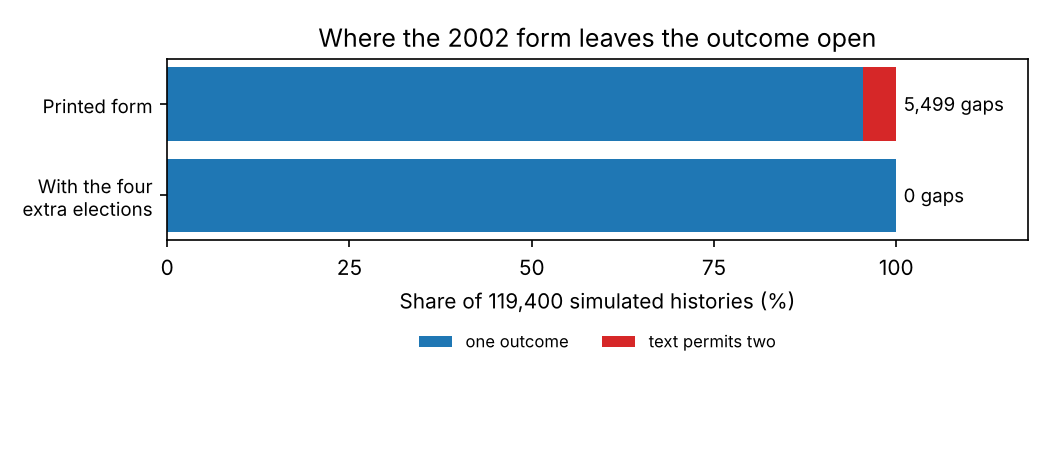
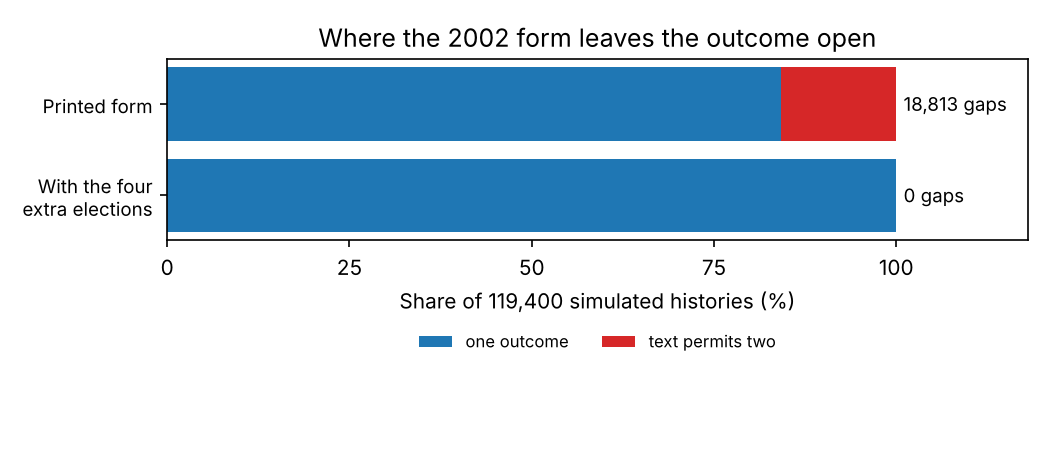
Update compiler section with the independent-spec results
Claude-Session: https://claude.ai/code/session_016kv7imztxe2ZwGBs7LyZaw

Changed region(s): [[0.7314, 0.1244, 0.8229, 0.3111], [0.8533, 0.2178, 0.9752, 0.2489]]

diff --git a/notes/derivatives-law-in-lean.html b/notes/derivatives-law-in-lean.html
@@ -122,7 +122,7 @@
 
 <h3>If a Credit Event Upon Merger hits both parties, nobody can terminate</h3>
 <p>Section 6(b)(iv) gives the right to designate after a Credit Event Upon Merger to the Non-affected Party. That party exists only when a single party is affected. The form provides a two-party fallback for Additional Termination Events but not for Credit Event Upon Merger, so a merger that weakens both parties' credit leaves no one able to terminate. This isn't two readings. The text answers the question, and the answer is a hole in the deal.</p>
-<p>The model also turned up smaller ISDA points. Section 5(c)(ii) reads two ways for an Illegality that causes a missed payment and is also an Additional Termination Event. If both parties miss payments that aren't netted, Section 2(a)(iii) becomes circular when its conditions are tested at the same moment. An unpaid Early Termination Amount from an Illegality is folded into a later close-out only after certain kinds of event. And the 2002 Protocol's FX annex treats an FX disruption as not an Illegality, which brings back the default route for the resulting missed payment.</p>
+<p>The model also turned up smaller ISDA points. Section 5(c)(ii) reads two ways for an Illegality that causes a missed payment and is also an Additional Termination Event. An unpaid Early Termination Amount from an Illegality is folded into a later close-out only after certain kinds of event. And the 2002 Protocol's FX annex treats an FX disruption as not an Illegality, which brings back the default route for the resulting missed payment.</p>
 
 <h2>Drafters patch the gaps they already know about and leave the rest open</h2>
 <p>A gap in the printed form only matters if the parties leave it open. We pulled 199 negotiated 2002-form Schedules filed as exhibits on EDGAR (150 distinct, from 115 filers, 2004 to 2026), coded their elections and ran the Lean model on each one.</p>
@@ -134,12 +134,13 @@
 
 <h2>The 2002 form compiles, except at four points</h2>
 <p>The natural next step was to ask whether the form could run as a program. We built a compiler. It takes a Schedule's elections and a dated history of events (missed payments, notices, cures, bankruptcy petitions, mergers) and steps through the days. Each day it reports who is in default, whose payments are suspended, who may terminate and when. At the end it gives the close-out payment.</p>
-<p>The useful way to think about this is that the form defines a relation, not a function. For a given history, the text permits a set of outcomes. Usually that set has exactly one member. At a gap it has two. Lean proves the compiler sound and complete against that relation. When it returns an outcome, that is the only outcome the text permits. When it halts, it hands back two permitted outcomes that actually differ. And with four extra elections, it provably returns exactly one outcome for every history. The four are a rule for when both parties miss a payment, a tie-break for same-day notices, a designator when a merger hits both parties, and a reading of 5(c)(ii).</p>
+<p>The useful way to think about this is that the form defines a relation, not a function. For a given history, the text permits a set of outcomes. Usually that set has exactly one member. At a gap it has two. Lean proves the compiler sound and complete against that relation. When it returns an outcome, that is the only outcome the text permits. When it halts, it hands back two permitted outcomes that actually differ. And with four extra elections, it provably returns exactly one outcome for every history. The four are a reading of when a default "has occurred" under 2(a)(iii), a tie-break for same-day notices, a designator when a merger hits both parties, and a reading of 5(c)(ii).</p>
+<p>The first of those is the most common gap in practice, and we only found it by checking the compiler against a second specification, written separately from the clauses. Section 2(a)(iii) suspends a party's payments while an Event of Default or Potential Event of Default by the other side "has occurred and is continuing". Suppose one party misses a payment in the morning. Is the other party's payment that afternoon still due? If "has occurred" includes a failure earlier the same day, it is suspended. If the condition is tested at the start of the day, it is due. The two readings give different close-out amounts. The circular case where both parties miss a payment on the same day is just a special case of this question. It comes up whenever any payment is missed.</p>
 <figure>
-  <img src="../assets/derivatives-compiler.png" alt="Stacked bar: under the printed form, 5,499 of 119,400 histories have two permitted outcomes; with the four extra elections, none do.">
+  <img src="../assets/derivatives-compiler.png" alt="Stacked bar: under the printed form, 18,813 of 119,400 histories have two permitted outcomes; with the four extra elections, none do.">
   <figcaption>Each of the 199 real election sets was run against 600 generated event histories. Red marks histories where the text permits two different outcomes.</figcaption>
 </figure>
-<p>A few real Schedules contain the first of those four elections. None we read contains the other three. Making an ISDA relationship self-executing would take more than this, because valuations, notices and judgments such as "commercially reasonable" still come from outside. But on the mechanical core, the list of what a Schedule must add to become a deterministic program is short and specific. The proof shows the compiler halts exactly at the gaps we know about. It doesn't yet show there are no others, and an independent specification to test that is in progress.</p>
+<p>Two of the 199 Schedules close the first gap, by deleting "Potential Event of Default" from 2(a)(iii). None we read closes the other three. Making an ISDA relationship self-executing would take more than this, because valuations, notices and judgments such as "commercially reasonable" still come from outside. But on the mechanical core, the list of what a Schedule must add to become a deterministic program is short and specific. The second specification shares no code with the compiler and has no list of known gaps. Across 110,304 histories enumerated exhaustively within small bounds, it permits exactly the outcomes the compiler does. Getting there also exposed five bugs in the compiler and two in the specification, all now fixed and pinned by theorems. The check doesn't yet cover Automatic Early Termination, bankruptcy, set-off or netting across many trades.</p>
 
 <h2>How we did this, and what to be careful about</h2>
 <p>The regulations come from the eCFR bulk XML (amended through 18 November 2026) and the statute from govinfo. Every definition in the Lean models cites its provision, and every expressible worked example is a test. Lean checks the proofs against the model, not the model against the text. For that we also ran a separate Python implementation on 600 random portfolios. It caught one translation error that compiled and passed every proof, and the two now agree on all 600. The models simplify: one taxpayer and one year at a time for tax, and for ISDA two parties, every day a business day and close-out values taken as given. The EDGAR election coding is heuristic, and about a quarter of Schedules have at least one election we couldn't read.</p>

diff --git a/tools/make-derivatives-figures.py b/tools/make-derivatives-figures.py
@@ -67,7 +67,7 @@ save(fig, "derivatives-race.png")
 # 3. The compiler: how often the printed form determines a unique outcome.
 total = 119_400
 bars = [
-    ("Printed form", total - 5_499, 5_499),
+    ("Printed form", total - 18_813, 18_813),
     ("With the four\nextra elections", total, 0),
 ]
 fig, ax = plt.subplots(figsize=(7, 3.0))
